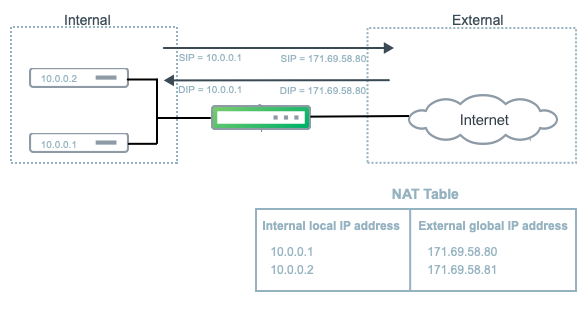
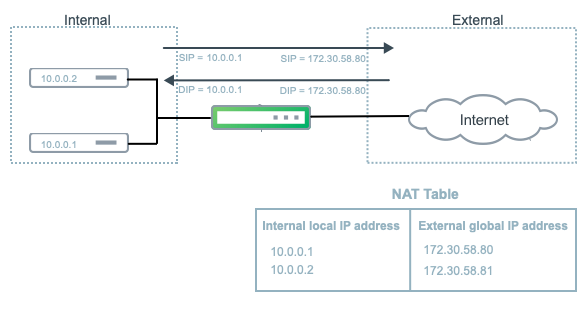
updated ip addresses again lol

diff --git a/content/cumulus-linux-41/Layer-3/Network-Address-Translation-NAT.md b/content/cumulus-linux-41/Layer-3/Network-Address-Translation-NAT.md
@@ -6,14 +6,14 @@ toc: 3
 ---
 Network Address Translation (NAT) enables your network to use one set of IP addresses for internal traffic and a second set of addresses for external traffic.
 
-NAT was designed to overcome addressing problems due to the explosive growth of the Internet. In addition to preventing the depletion of IPv4 addresses, NAT enables you to use the private address space internally and still have a way to access the Internet, which increases security by hiding your internal network topology and private addresses.
+NAT was designed to overcome addressing problems due to the explosive growth of the Internet. In addition to preventing the depletion of IPv4 addresses, NAT enables you to use the private address space internally and still have a way to access the Internet.
 
 Cumulus Linux supports both static NAT and dynamic NAT. Static NAT provides a permanent mapping between one private IP address and a single public address. Dynamic NAT maps private IP addresses to public addresses; these public IP addresses come from a pool. The translations are created as needed  dynamically, so that a large number of private addresses can share a smaller pool of public addresses.
 
 Static and dynamic NAT both support:
 
 - Basic NAT, which only translates the IP address in the packet: the source IP address in the outbound direction and the destination IP address in the inbound direction.
-- PAT, which translates both the IP address and layer 4 port: the source IP address and port in the outbound direction and the destination IP address and port in the inbound direction.
+- Port Address Translation (PAT), which translates both the IP address and layer 4 port: the source IP address and port in the outbound direction and the destination IP address and port in the inbound direction.
 
 The following illustratration shows a basic NAT configuration.
 
@@ -31,7 +31,7 @@ The following illustratration shows a basic NAT configuration.
 
 ## Static NAT
 
-Static NAT provides a one-to-one mapping between a private IP address inside your network and a public IP address. For example, if you have a web server with the private IP address 10.0.0.10 and you want a remote host to be able to make a request to the web server using the IP address 172.69.58.80, you must configure a static NAT mapping between the two IP addresses.
+Static NAT provides a one-to-one mapping between a private IP address inside your network and a public IP address. For example, if you have a web server with the private IP address 10.0.0.10 and you want a remote host to be able to make a request to the web server using the IP address 172.30.58.80, you must configure a static NAT mapping between the two IP addresses.
 
 Static NAT entries do not time out from the translation table.
 
@@ -94,34 +94,34 @@ Where:
 
 **Command Examples**
 
-The following rule matches TCP packets with source IP address 10.0.01 and translates the IP address to 172.69.58.80:
+The following rule matches TCP packets with source IP address 10.0.01 and translates the IP address to 172.30.58.80:
 
 ```
-cumulus@switch:~$ net add nat static snat tcp 10.0.0.1 translate 172.69.58.80
+cumulus@switch:~$ net add nat static snat tcp 10.0.0.1 translate 172.30.58.80
 cumulus@switch:~$ net pending
 cumulus@switch:~$ net commit
 ```
 
-The following rule matches ICMP packets with destination IP address 172.69.58.80 on interface swp51 and translates the IP address to 10.0.0.1
+The following rule matches ICMP packets with destination IP address 172.30.58.80 on interface swp51 and translates the IP address to 10.0.0.1
 
 ```
-cumulus@switch:~$ net add nat static dnat icmp 172.69.58.80 in-interface swp51 translate 10.0.0.1
+cumulus@switch:~$ net add nat static dnat icmp 172.30.58.80 in-interface swp51 translate 10.0.0.1
 cumulus@switch:~$ net pending
 cumulus@switch:~$ net commit
 ```
 
-The following rule matches UDP packets with source IP address 10.0.0.1 and source port 5000, and translates the IP address to 172.69.58.80 and the port to 6000.
+The following rule matches UDP packets with source IP address 10.0.0.1 and source port 5000, and translates the IP address to 172.30.58.80 and the port to 6000.
 
 ```
-cumulus@switch:~$ net add nat static snat udp 10.0.0.1 5000 translate 172.69.58.80 6000
+cumulus@switch:~$ net add nat static snat udp 10.0.0.1 5000 translate 172.30.58.80 6000
 cumulus@switch:~$ net pending
 cumulus@switch:~$ net commit
 ```
 
-The following rule matches UDP packets with destination IP address 172.69.58.80 and destination port 6000 on interface swp51, and translates the IP address to 10.0.0.1 and the port to 5000:
+The following rule matches UDP packets with destination IP address 172.30.58.80 and destination port 6000 on interface swp51, and translates the IP address to 10.0.0.1 and the port to 5000:
 
 ```
-cumulus@switch:~$ net add nat static dnat udp 172.69.58.80 6000 in-interface swp51 translate 10.0.0.1 5000
+cumulus@switch:~$ net add nat static dnat udp 172.30.58.80 6000 in-interface swp51 translate 10.0.0.1 5000
 cumulus@switch:~$ net pending
 cumulus@switch:~$ net commit
 ```
@@ -129,7 +129,7 @@ cumulus@switch:~$ net commit
 To delete a static rule, run the `net del` command. For example:
 
 ```
-cumulus@switch:~$ net del nat static snat tcp 10.0.0.1 translate 172.69.58.80
+cumulus@switch:~$ net del nat static snat tcp 10.0.0.1 translate 172.30.58.80
 cumulus@switch:~$ net pending
 cumulus@switch:~$ net commit
 ```
@@ -151,28 +151,28 @@ cumulus@switch:~$ sudo nano /etc/cumulus/acl/policy.d/60_nat.rules
 
 **Example Rules**
 
-The following rule matches TCP packets with source IP address 10.0.01 and translates the IP address to 172.69.58.80:
+The following rule matches TCP packets with source IP address 10.0.01 and translates the IP address to 172.30.58.80:
 
 ```
--t nat -A POSTROUTING -s 10.0.0.1 -p tcp -j SNAT --to-source 172.69.58.80
+-t nat -A POSTROUTING -s 10.0.0.1 -p tcp -j SNAT --to-source 172.30.58.80
 ```
 
-The following rule matches ICMP packets with destination IP address 172.69.58.80 on interface swp51 and translates the IP address to 10.0.0.1
+The following rule matches ICMP packets with destination IP address 172.30.58.80 on interface swp51 and translates the IP address to 10.0.0.1
 
 ```
--t nat -A PREROUTING -d 172.69.58.80 -p icmp --in-interface swp51 -j DNAT --to-destination 10.0.0.1
+-t nat -A PREROUTING -d 172.30.58.80 -p icmp --in-interface swp51 -j DNAT --to-destination 10.0.0.1
 ```
 
-The following rule matches UDP packets with source IP address 10.0.0.1 and source port 5000, and translates the IP address to 172.69.58.80 and the port to 6000.
+The following rule matches UDP packets with source IP address 10.0.0.1 and source port 5000, and translates the IP address to 172.30.58.80 and the port to 6000.
 
 ```
--t nat -A POSTROUTING -s 10.0.0.1 -p udp --sport 5000 -j SNAT --to-source 172.69.58.80:6000
+-t nat -A POSTROUTING -s 10.0.0.1 -p udp --sport 5000 -j SNAT --to-source 172.30.58.80:6000
 ```
 
-The following rule matches UDP packets with destination IP address 172.69.58.80 and destination port 6000 on interface swp51, and translates the IP address to 10.0.0.1 and the port to 5000.
+The following rule matches UDP packets with destination IP address 172.30.58.80 and destination port 6000 on interface swp51, and translates the IP address to 10.0.0.1 and the port to 5000.
 
 ```
--t nat -A PREROUTING -d 172.69.58.80 -p udp --dport 6000 --in-interface swp51  -j DNAT --to-destination 10.0.0.1:5000
+-t nat -A PREROUTING -d 172.30.58.80 -p udp --dport 6000 --in-interface swp51  -j DNAT --to-destination 10.0.0.1:5000
 ```
 
 To delete a static NAT rule, remove the rule from the policy file in the  `/etc/cumulus/acl/policy.d` directory, then run the `sudo cl-acltool -i command`.
@@ -248,42 +248,42 @@ For source NAT (`snat`), you can match a source IP address or both a source and 
 
 **Example Commands**
 
-The following rule matches TCP packets with source IP address 10.0.0.0/24 on outbound interface swp5 and translates the address dynamically to an IP address in the range 172.69.58.0-172.69.58.80:
+The following rule matches TCP packets with source IP address 10.0.0.0/24 on outbound interface swp5 and translates the address dynamically to an IP address in the range 172.30.58.0-172.30.58.80:
 
 ```
-cumulus@switch:~$ net add nat dynamic snat tcp source-ip 10.0.0.0/24 out-interface swp5 translate 172.69.58.0-172.69.58.80
+cumulus@switch:~$ net add nat dynamic snat tcp source-ip 10.0.0.0/24 out-interface swp5 translate 172.30.58.0-172.30.58.80
 cumulus@switch:~$ net pending
 cumulus@switch:~$ net commit
 ```
 
-The following rule matches UDP packets with source IP address 10.0.0.0/24 and translates the addresses dynamically to IP address 172.69.58.80 with layer 4 ports in the range 1024-1200:
+The following rule matches UDP packets with source IP address 10.0.0.0/24 and translates the addresses dynamically to IP address 172.30.58.80 with layer 4 ports in the range 1024-1200:
 
 ```
-cumulus@switch:~$ net add nat dynamic snat udp source-ip 10.0.0.0/24 translate 172.69.58.80 1024-1200
+cumulus@switch:~$ net add nat dynamic snat udp source-ip 10.0.0.0/24 translate 172.30.58.80 1024-1200
 cumulus@switch:~$ net pending
 cumulus@switch:~$ net commit
 ```
 
-The following rule matches UDP packets with source IP address 10.0.0.0/24 on source port 5000 and translates the addresses dynamically to IP address 172.69.58.80 with layer 4 ports in the range 1024-1200:
+The following rule matches UDP packets with source IP address 10.0.0.0/24 on source port 5000 and translates the addresses dynamically to IP address 172.30.58.80 with layer 4 ports in the range 1024-1200:
 
 ```
-cumulus@switch:~$ net add nat dynamic snat udp source-ip 10.0.0.0/24 source-port 5000 translate 172.69.58.80 1024-1200
+cumulus@switch:~$ net add nat dynamic snat udp source-ip 10.0.0.0/24 source-port 5000 translate 172.30.58.80 1024-1200
 cumulus@switch:~$ net pending
 cumulus@switch:~$ net commit
 ```
 
-The following rule matches TCP packets with destination IP address 10.1.0.0/24 and translates the address dynamically to IP address range 172.69.58.0-172.69.58.80 with layer 4 ports in the range 1024-1200:
+The following rule matches TCP packets with destination IP address 10.1.0.0/24 and translates the address dynamically to IP address range 172.30.58.0-172.30.58.80 with layer 4 ports in the range 1024-1200:
 
 ```
-cumulus@switch:~$ net add nat dynamic dnat tcp destination-ip 10.1.0.0/24 translate 172.69.58.0-172.69.58.80 1024-1200
+cumulus@switch:~$ net add nat dynamic dnat tcp destination-ip 10.1.0.0/24 translate 172.30.58.0-172.30.58.80 1024-1200
 cumulus@switch:~$ net pending
 cumulus@switch:~$ net commit
 ```
 
-The following rule matches ICMP packets with source IP address 10.0.0.0/24 and destination IP address 10.1.0.0/24 and translates the address dynamically to IP address range 172.69.58.0-172.69.58.80 with layer 4 ports in the range 1024-1200:
+The following rule matches ICMP packets with source IP address 10.0.0.0/24 and destination IP address 10.1.0.0/24 and translates the address dynamically to IP address range 172.30.58.0-172.30.58.80 with layer 4 ports in the range 1024-1200:
 
 ```
-cumulus@switch:~$ net add nat dynamic snat icmp source-ip 10.0.0.0/24 destination-ip 10.1.0.0/24 translate 172.69.58.0-172.69.58.80 1024-1200
+cumulus@switch:~$ net add nat dynamic snat icmp source-ip 10.0.0.0/24 destination-ip 10.1.0.0/24 translate 172.30.58.0-172.30.58.80 1024-1200
 cumulus@switch:~$ net pending
 cumulus@switch:~$ net commit
 ```
@@ -291,7 +291,7 @@ cumulus@switch:~$ net commit
 To delete a dynamic rule, run the `net del` command. For example:
 
 ```
-cumulus@switch:~$ net del nat dynamic snat tcp source-ip 10.0.0.0/24 translate 172.69.58.0-172.69.58.80 1024-1200
+cumulus@switch:~$ net del nat dynamic snat tcp source-ip 10.0.0.0/24 translate 172.30.58.0-172.30.58.80 1024-1200
 cumulus@switch:~$ net pending
 cumulus@switch:~$ net commit
 ```
@@ -313,34 +313,34 @@ cumulus@switch:~$ sudo nano /etc/cumulus/acl/policy.d/60_nat.rules
 
 **Example Rules**
 
-The following rule matches TCP packets with source IP address 10.0.0.0/24 on outbound interface swp5 and translates the address dynamically to an IP address in the range 172.69.58.0-172.69.58.80.
+The following rule matches TCP packets with source IP address 10.0.0.0/24 on outbound interface swp5 and translates the address dynamically to an IP address in the range 172.30.58.0-172.30.58.80.
 
 ```
--t nat -A POSTROUTING -s 10.0.0.0/24 --out-interface swp5 -p tcp -j SNAT --to-source 172.69.58.0-172.69.58.80
+-t nat -A POSTROUTING -s 10.0.0.0/24 --out-interface swp5 -p tcp -j SNAT --to-source 172.30.58.0-172.30.58.80
 ```
 
-The following rule matches UDP packets with source IP address 10.0.0.0/24 and translates the addresses dynamically to IP address 172.69.58.80 with layer 4 ports in the range 1024-1200:
+The following rule matches UDP packets with source IP address 10.0.0.0/24 and translates the addresses dynamically to IP address 172.30.58.80 with layer 4 ports in the range 1024-1200:
 
 ```
--t nat -A POSTROUTING -s 10.0.0.0/24 -p udp -j SNAT --to-source 172.69.58.80:1024-1200
+-t nat -A POSTROUTING -s 10.0.0.0/24 -p udp -j SNAT --to-source 172.30.58.80:1024-1200
 ```
 
-The following rule matches UDP packets with source IP address 10.0.0.0/24 on source port 5000 and translates the addresses dynamically to IP address 172.69.58.80 with layer 4 ports in the range 1024-1200:
+The following rule matches UDP packets with source IP address 10.0.0.0/24 on source port 5000 and translates the addresses dynamically to IP address 172.30.58.80 with layer 4 ports in the range 1024-1200:
 
 ```
--t nat -A POSTROUTING -s 10.0.0.0/24 -p udp --sport 5000 -j SNAT --to-source 172.69.58.80:1024-1200
+-t nat -A POSTROUTING -s 10.0.0.0/24 -p udp --sport 5000 -j SNAT --to-source 172.30.58.80:1024-1200
 ```
 
-The following rule matches TCP packets with destination IP address 10.1.0.0/24 and translates the address dynamically to IP address range 172.69.58.0-172.69.58.80 with layer 4 ports in the range 1024-1200:
+The following rule matches TCP packets with destination IP address 10.1.0.0/24 and translates the address dynamically to IP address range 172.30.58.0-172.30.58.80 with layer 4 ports in the range 1024-1200:
 
 ```
--t nat -A PREROUTING -d 10.1.0.0/24 -p tcp -j DNAT --to-destination 172.69.58.0-172.69.58.80:1024-1200
+-t nat -A PREROUTING -d 10.1.0.0/24 -p tcp -j DNAT --to-destination 172.30.58.0-172.30.58.80:1024-1200
 ```
 
-The following rule matches ICMP packets with source IP address 10.0.0.0/24 and destination IP address 10.1.0.0/24 and translates the address dynamically to IP address range 172.69.58.0-172.69.58.80 with layer 4 ports in the range 1024-1200:
+The following rule matches ICMP packets with source IP address 10.0.0.0/24 and destination IP address 10.1.0.0/24 and translates the address dynamically to IP address range 172.30.58.0-172.30.58.80 with layer 4 ports in the range 1024-1200:
 
 ```
--t nat -A POSTROUTING -s 10.0.0.0/24 -d 10.1.0.0/24 -p icmp -j SNAT --to-source 172.69.58.0-172.69.58.80:1024-1200
+-t nat -A POSTROUTING -s 10.0.0.0/24 -d 10.1.0.0/24 -p icmp -j SNAT --to-source 172.30.58.0-172.30.58.80:1024-1200
 ```
 
 To delete a dynamic NAT rule, remove the rule from the policy file in the  `/etc/cumulus/acl/policy.d` directory, then run the `sudo cl-acltool -i` command.
@@ -357,7 +357,7 @@ cumulus@switch:~$ sudo iptables -t nat -v -L
 ...
 Chain POSTROUTING (policy ACCEPT 27 packets, 3249 bytes)
  pkts bytes target   prot opt in   out   source      destination
-    0     0 SNAT     tcp --  any  any   10.0.0.1    anywhere     to:172.69.58.80
+    0     0 SNAT     tcp --  any  any   10.0.0.1    anywhere     to:172.30.58.80
 ```
 
 ## Show Conntrack Flows
@@ -366,5 +366,5 @@ To see the currently active connection tracking (conntrack) flows, run the `sudo
 
 ```
 cumulus@switch:~$ sudo cat /proc/net/nf_conntrack
-ipv4     2 udp      17 src=172.16.10.5 dst=10.0.0.2 sport=5001 dport=5000 src=10.0.0.2 dst=10.1.0.10 sport=6000 dport=1026 [OFFLOAD] mark=0 zone=0 use=2
+ipv4     2 udp      17 src=172.30.10.5 dst=10.0.0.2 sport=5001 dport=5000 src=10.0.0.2 dst=10.1.0.10 sport=6000 dport=1026 [OFFLOAD] mark=0 zone=0 use=2
 ```
